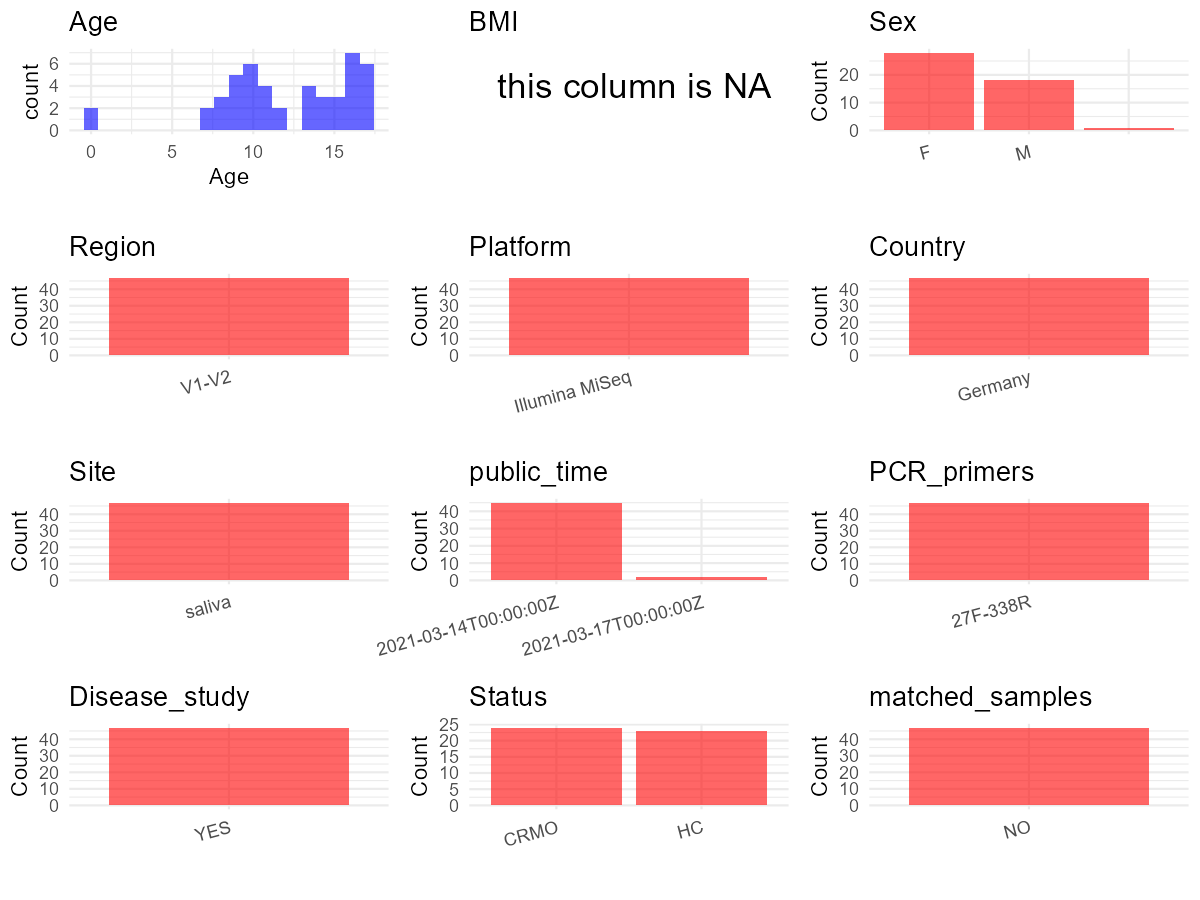
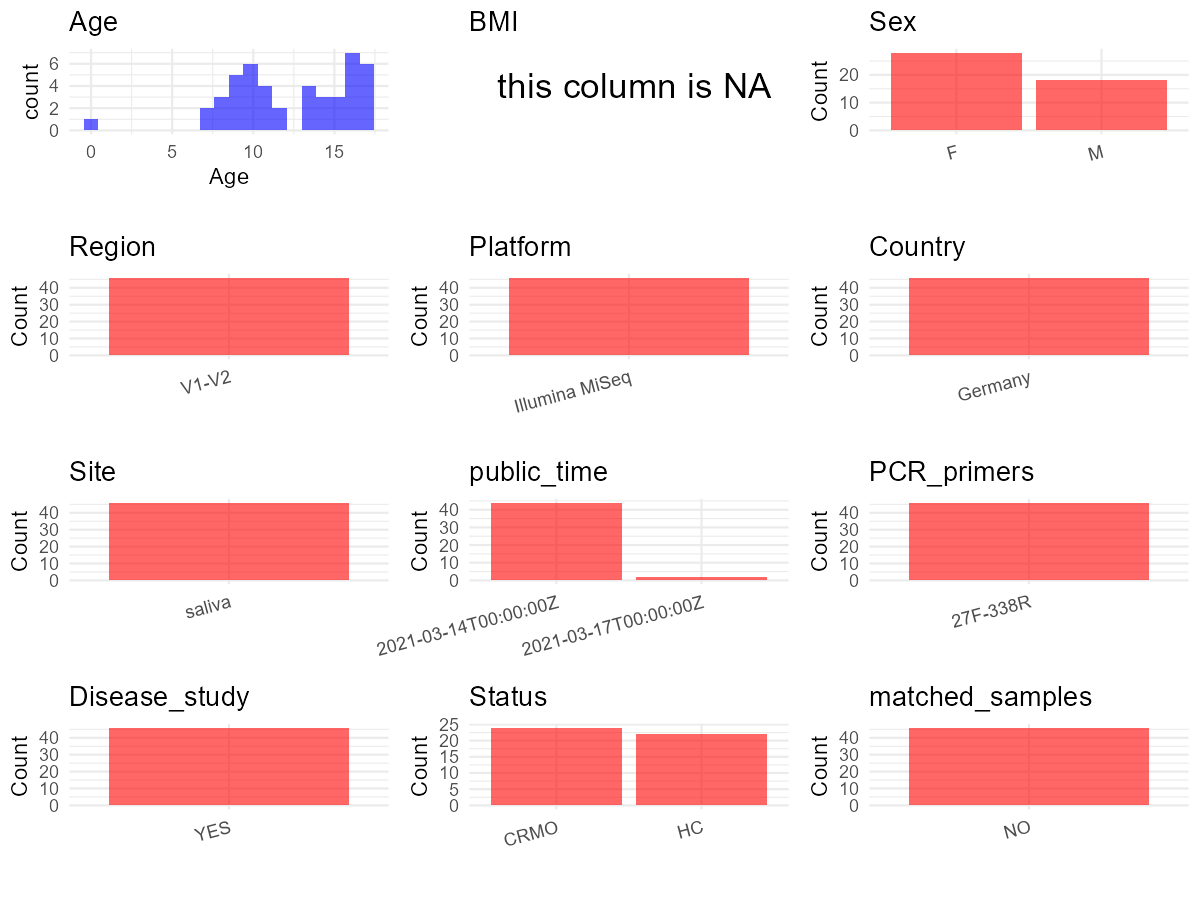
修正PRJEB22984

diff --git a/data/projects/PRJEB22984/metadata_curation.md b/data/projects/PRJEB22984/metadata_curation.md
@@ -251,7 +251,10 @@ metadata <- data.frame(
 
 # Use abbreviations to indicate gender
 metadata <- metadata %>%
-  mutate(Sex = recode(Sex, "female" = "F", "male" = "M"))
+  mutate(Sex = recode(Sex, "female" = "F", "male" = "M") %>%
+  as.character() %>% 
+  na_if("")) %>%
+  filter(!is.na(Sex) & Sex != "")
 
 # Add a horizontal bar between V3 and V4
 metadata <- metadata %>%
@@ -285,16 +288,16 @@ table(metadata$sample_name)
     ## 
     ##  AA260503  AE050897  AI200999  AU110404  AU211200  CA190498  CE170606  CI040203 
     ##         1         1         1         1         1         1         1         1 
-    ##  CU260699  EA200604  EM220506  EO140699  EO150896  EU040503  EY110304  HO301200 
+    ##  CU260699  EA200604  EO140699  EO150896  EU040503  EY110304  HO301200  IA040597 
     ##         1         1         1         1         1         1         1         1 
-    ##  IA040597  IE231105  IE310103  II090906  II231196  IT171197  IU080396  IU230600 
+    ##  IE231105  IE310103  II090906  II231196  IT171197  IU080396  IU230600  IU250797 
     ##         1         1         1         1         1         1         1         1 
-    ##  IU250797  LA161000  LA281297  OA020500  OA170497  OA220499 OEI151198  OH140806 
+    ##  LA161000  LA281297  OA020500  OA170497  OA220499 OEI151198  OH140806  OI010805 
     ##         1         1         1         1         1         1         1         1 
-    ##  OI010805  ON070596  PA020697  RE290505  RI181200  RI270298  RN140505  RY020603 
+    ##  ON070596  PA020697  RE290505  RI181200  RI270298  RN140505  RY020603  TO050504 
     ##         1         1         1         1         1         1         1         1 
-    ##  TO050504  UA210704  UE150503 UEA011204  UJ260506  UR251097  UY130300 
-    ##         1         1         1         1         1         1         1
+    ##  UA210704  UE150503 UEA011204  UJ260506  UR251097  UY130300 
+    ##         1         1         1         1         1         1
 
 ``` r
 table(metadata$Site)
@@ -302,7 +305,7 @@ table(metadata$Site)
 
     ## 
     ## saliva 
-    ##     47
+    ##     46
 
 ``` r
 # Calculate sampling frequency per subject
@@ -320,16 +323,16 @@ print(sample_counts)
     ## 
     ##  AA260503  AE050897  AI200999  AU110404  AU211200  CA190498  CE170606  CI040203 
     ##         1         1         1         1         1         1         1         1 
-    ##  CU260699  EA200604  EM220506  EO140699  EO150896  EU040503  EY110304  HO301200 
+    ##  CU260699  EA200604  EO140699  EO150896  EU040503  EY110304  HO301200  IA040597 
     ##         1         1         1         1         1         1         1         1 
-    ##  IA040597  IE231105  IE310103  II090906  II231196  IT171197  IU080396  IU230600 
+    ##  IE231105  IE310103  II090906  II231196  IT171197  IU080396  IU230600  IU250797 
     ##         1         1         1         1         1         1         1         1 
-    ##  IU250797  LA161000  LA281297  OA020500  OA170497  OA220499 OEI151198  OH140806 
+    ##  LA161000  LA281297  OA020500  OA170497  OA220499 OEI151198  OH140806  OI010805 
     ##         1         1         1         1         1         1         1         1 
-    ##  OI010805  ON070596  PA020697  RE290505  RI181200  RI270298  RN140505  RY020603 
+    ##  ON070596  PA020697  RE290505  RI181200  RI270298  RN140505  RY020603  TO050504 
     ##         1         1         1         1         1         1         1         1 
-    ##  TO050504  UA210704  UE150503 UEA011204  UJ260506  UR251097  UY130300 
-    ##         1         1         1         1         1         1         1
+    ##  UA210704  UE150503 UEA011204  UJ260506  UR251097  UY130300 
+    ##         1         1         1         1         1         1
 
 ``` r
 # Create matched_samples column
@@ -347,7 +350,7 @@ table(metadata$matched_samples)
 
     ## 
     ## NO 
-    ## 47
+    ## 46
 
 ``` r
 # Identify samples for removal: single samples excluding saliva
@@ -378,16 +381,16 @@ table(metadata_clean$sample_name)
     ## 
     ##  AA260503  AE050897  AI200999  AU110404  AU211200  CA190498  CE170606  CI040203 
     ##         1         1         1         1         1         1         1         1 
-    ##  CU260699  EA200604  EM220506  EO140699  EO150896  EU040503  EY110304  HO301200 
+    ##  CU260699  EA200604  EO140699  EO150896  EU040503  EY110304  HO301200  IA040597 
     ##         1         1         1         1         1         1         1         1 
-    ##  IA040597  IE231105  IE310103  II090906  II231196  IT171197  IU080396  IU230600 
+    ##  IE231105  IE310103  II090906  II231196  IT171197  IU080396  IU230600  IU250797 
     ##         1         1         1         1         1         1         1         1 
-    ##  IU250797  LA161000  LA281297  OA020500  OA170497  OA220499 OEI151198  OH140806 
+    ##  LA161000  LA281297  OA020500  OA170497  OA220499 OEI151198  OH140806  OI010805 
     ##         1         1         1         1         1         1         1         1 
-    ##  OI010805  ON070596  PA020697  RE290505  RI181200  RI270298  RN140505  RY020603 
+    ##  ON070596  PA020697  RE290505  RI181200  RI270298  RN140505  RY020603  TO050504 
     ##         1         1         1         1         1         1         1         1 
-    ##  TO050504  UA210704  UE150503 UEA011204  UJ260506  UR251097  UY130300 
-    ##         1         1         1         1         1         1         1
+    ##  UA210704  UE150503 UEA011204  UJ260506  UR251097  UY130300 
+    ##         1         1         1         1         1         1
 
 ``` r
 table(metadata_clean$Site)
@@ -395,7 +398,7 @@ table(metadata_clean$Site)
 
     ## 
     ## saliva 
-    ##     47
+    ##     46
 
 ``` r
 table(metadata_clean$matched_samples)
@@ -403,7 +406,7 @@ table(metadata_clean$matched_samples)
 
     ## 
     ## NO 
-    ## 47
+    ## 46
 
 ``` r
 # Use cleaned dataset for subsequent analysis
@@ -417,13 +420,13 @@ metadata <- metadata_clean
 print(paste("Number of unique runs:", length(unique(metadata$Run))))
 ```
 
-    ## [1] "Number of unique runs: 47"
+    ## [1] "Number of unique runs: 46"
 
 ``` r
 print(paste("Number of unique sample names:", length(unique(metadata$sample_name))))
 ```
 
-    ## [1] "Number of unique sample names: 47"
+    ## [1] "Number of unique sample names: 46"
 
 # Step 5: Visualize the Metadata
 
